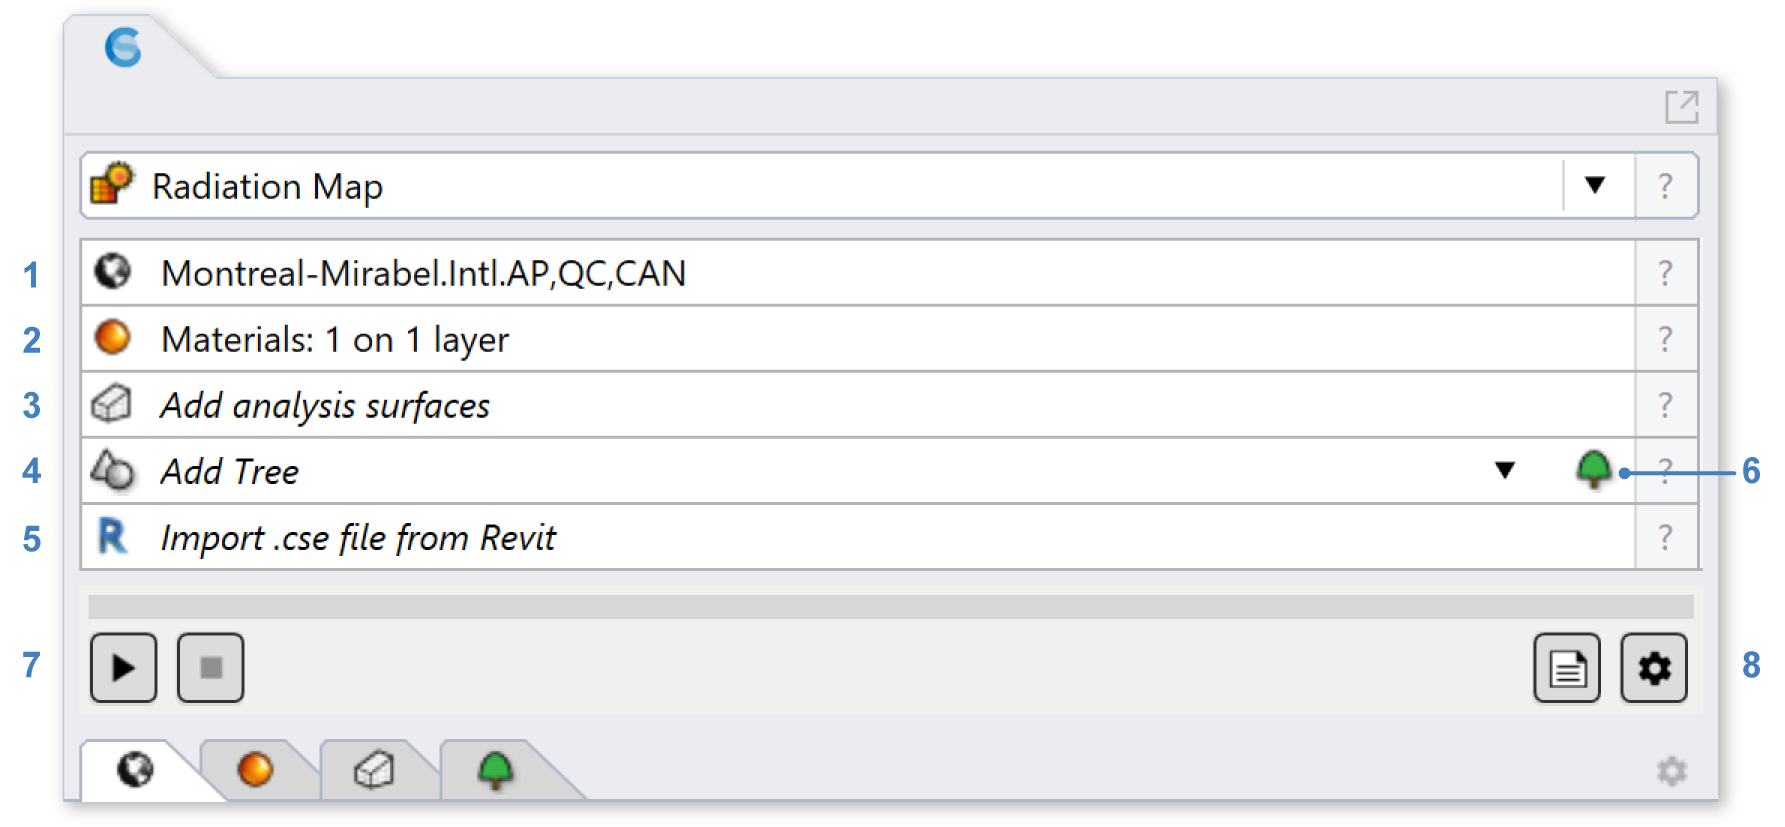
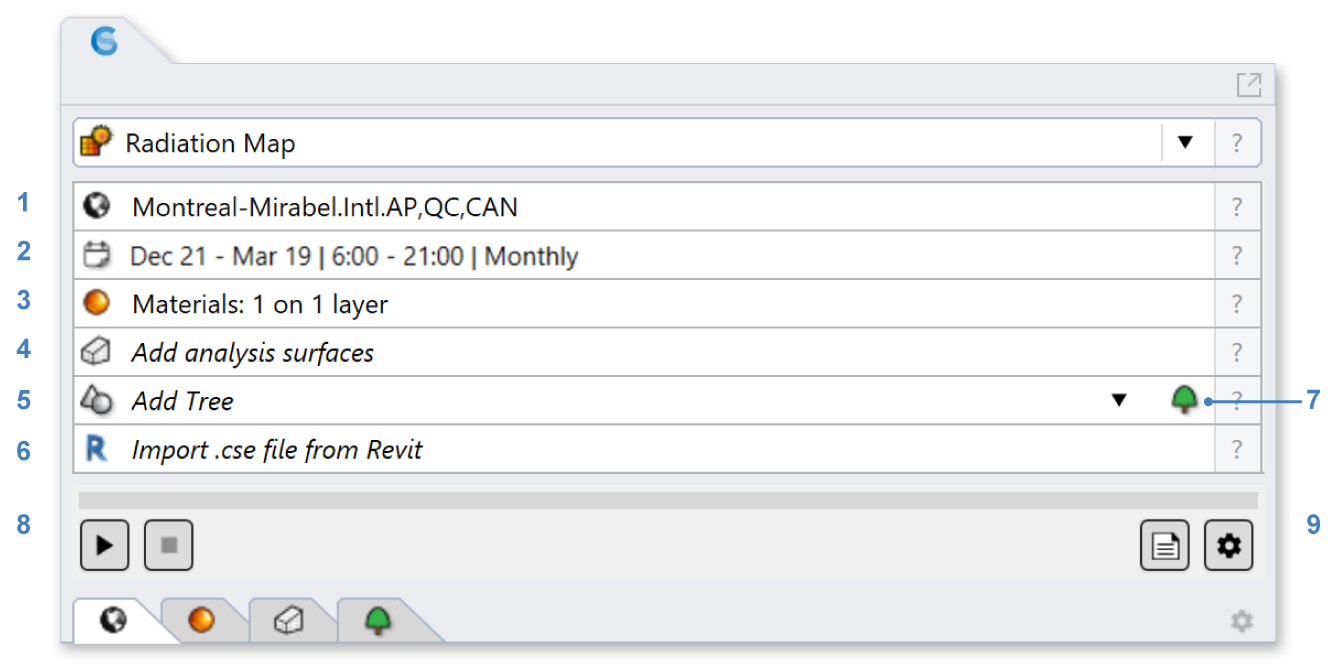
Radiation Map new Time Range doc #18

Changed region(s): [[0.0, 0.09, 1.0, 0.9895], [0.0306, 0.0, 0.0919, 0.09]]

diff --git a/docs/radiationMap.rst b/docs/radiationMap.rst
@@ -12,16 +12,19 @@ Simulation Setup
    :width: 900px
    :align: center
    
-To prepare a model for simulation, work your way through the three subpanels labeled 1-3 in the figure above.
+To prepare a model for simulation, work your way through the three subpanels labeled 1-4 in the figure above.
 
 | 1 - `Location`_
-| 2 - `Materials`_
-| 3 - `Analysis Surfaces`_ 
-| 4 - `Scene Assets`_ (optional): `Trees`_ (6)
-| 5 - `Import .cse file from Revit`_ (optional)
+| 2 - `Time Range`_
+| 3 - `Materials`_
+| 4 - `Analysis Surfaces`_ 
+| 5 - `Scene Assets`_ (optional): `Trees`_ (7)
+| 6 - `Import .cse file from Revit`_ (optional)
 
 
 .. _Location: location.html
+
+.. _Time Range: timerange.html
 
 .. _Materials: materials.html
 
@@ -33,10 +36,10 @@ To prepare a model for simulation, work your way through the three subpanels lab
 
 .. _Scene Assets: sceneObjects.html
 
-Once all required inputs have been populated, a simulation is invoked by pressing the start button (7). 
+Once all required inputs have been populated, a simulation is invoked by pressing the start button (8). 
 ClimateStudio uses a `progressive path-tracing`_ version of the Radiance raytracer to simulate irradiance distributions. 
 While a simulation is in progress, traced light paths accumulate until the user-specified number of passes has been reached. 
-Details on the simulation settings can be found by opening the `settings dialog`_ (8). 
+Details on the simulation settings can be found by opening the `settings dialog`_ (9). 
 For radiation maps, the dialog includes **low/high outdoor temperature thresholds**, 
 which can be used to bin radiation occurring during hot or cold hours throughout the year.
 

diff --git a/docs/timerange.rst b/docs/timerange.rst
@@ -1,0 +1,17 @@
+Time Range
+================================================
+The Time Range panel is used to specify the resolution and extent of a `radiation map`_ simulation. 
+
+.. figure:: images/subPanel_timerange.png
+   :width: 900px
+   :align: center
+   
+
+| 1 - Use the **Date Range Slider** to select dates (inclusive and wraps around)
+| 2 - Use the **Time Range Slider** to select hours (inclusive and wraps around)
+| 3 - The **Simulation Timestep** is always hourly
+| 4 - The **Saved Sensor Data** can be monthly to save disc space or hourly to show fine grained result. 
+
+*Both the date range slider and the time range slider can be fine-tuned with the left and right arrow keys on the keyboard.* 
+
+.. _radiation map: radiationMap.html
